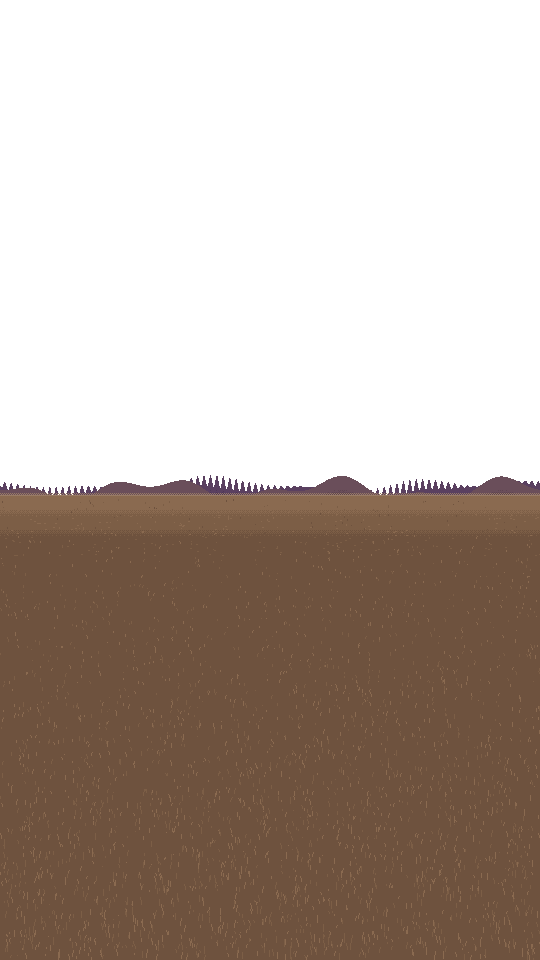
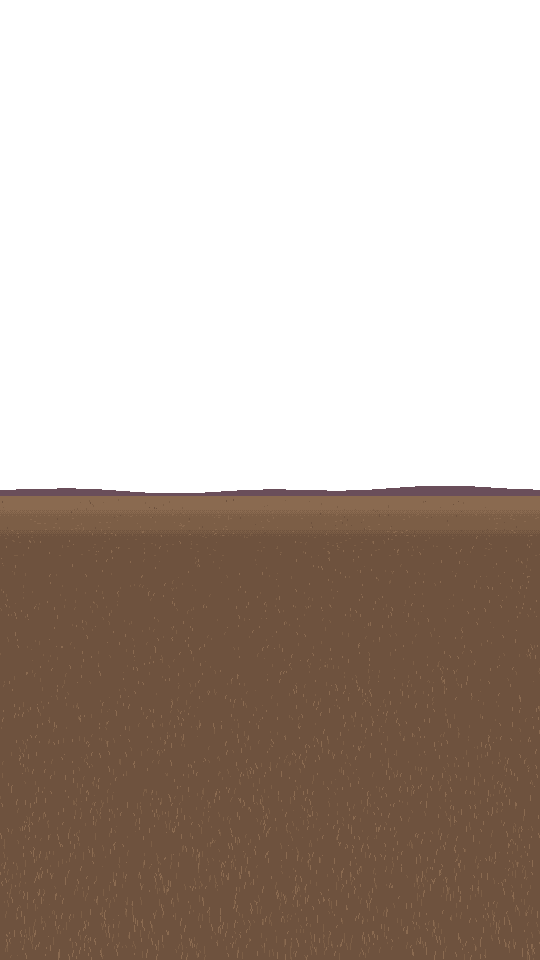
Gece vardiyası: Piri Reis grafiği (38 sahne) ve Root kaydı
Claude-Session: https://claude.ai/code/session_01XLxygqyFFVQPS5MtEC993Y

Changed region(s): [[0.0, 0.4688, 0.8593, 0.5312], [0.8889, 0.5, 1.0, 0.5312]]

diff --git a/video/src/Root.tsx b/video/src/Root.tsx
@@ -12,6 +12,7 @@ import { C29_FPS, C29_KARE, Cumhuriyet29 } from "./sahneler/Cumhuriyet29";
 import { KAL_KARE, Kalender } from "./sahneler/Kalender";
 import { KAL_LP_KARE, KalenderLowPoly } from "./sahneler/KalenderLowPoly";
 import { CEM_KARE, CemSultan } from "./sahneler/CemSultan";
+import { PIRI_REIS_KARE, PiriReis } from "./sahneler/PiriReis";
 import { MATBAA_KARE, MatbaaYasagi } from "./sahneler/MatbaaYasagi";
 import { HEZARFEN_KARE, Hezarfen } from "./sahneler/Hezarfen";
 import { ORHUN_KARE, OrhunYazitlari } from "./sahneler/OrhunYazitlari";
@@ -48,6 +49,7 @@ export const Root: React.FC = () => (
 		<Composition id="OrhunYazitlari" component={OrhunYazitlari} durationInFrames={ORHUN_KARE} fps={T_FPS} width={1080} height={1920} />
 		<Composition id="Hezarfen" component={Hezarfen} durationInFrames={HEZARFEN_KARE} fps={T_FPS} width={1080} height={1920} />
 		<Composition id="MatbaaYasagi" component={MatbaaYasagi} durationInFrames={MATBAA_KARE} fps={T_FPS} width={1080} height={1920} />
+		<Composition id="PiriReis" component={PiriReis} durationInFrames={PIRI_REIS_KARE} fps={T_FPS} width={1080} height={1920} />
 		<Composition id="KalenderLowPoly" component={KalenderLowPoly} durationInFrames={KAL_LP_KARE} fps={T_FPS} width={1080} height={1920} />
 		<Composition id="Fetih1453" component={Fetih1453} durationInFrames={F_KARE} fps={F_FPS} width={1920} height={1080} />
 	</>
